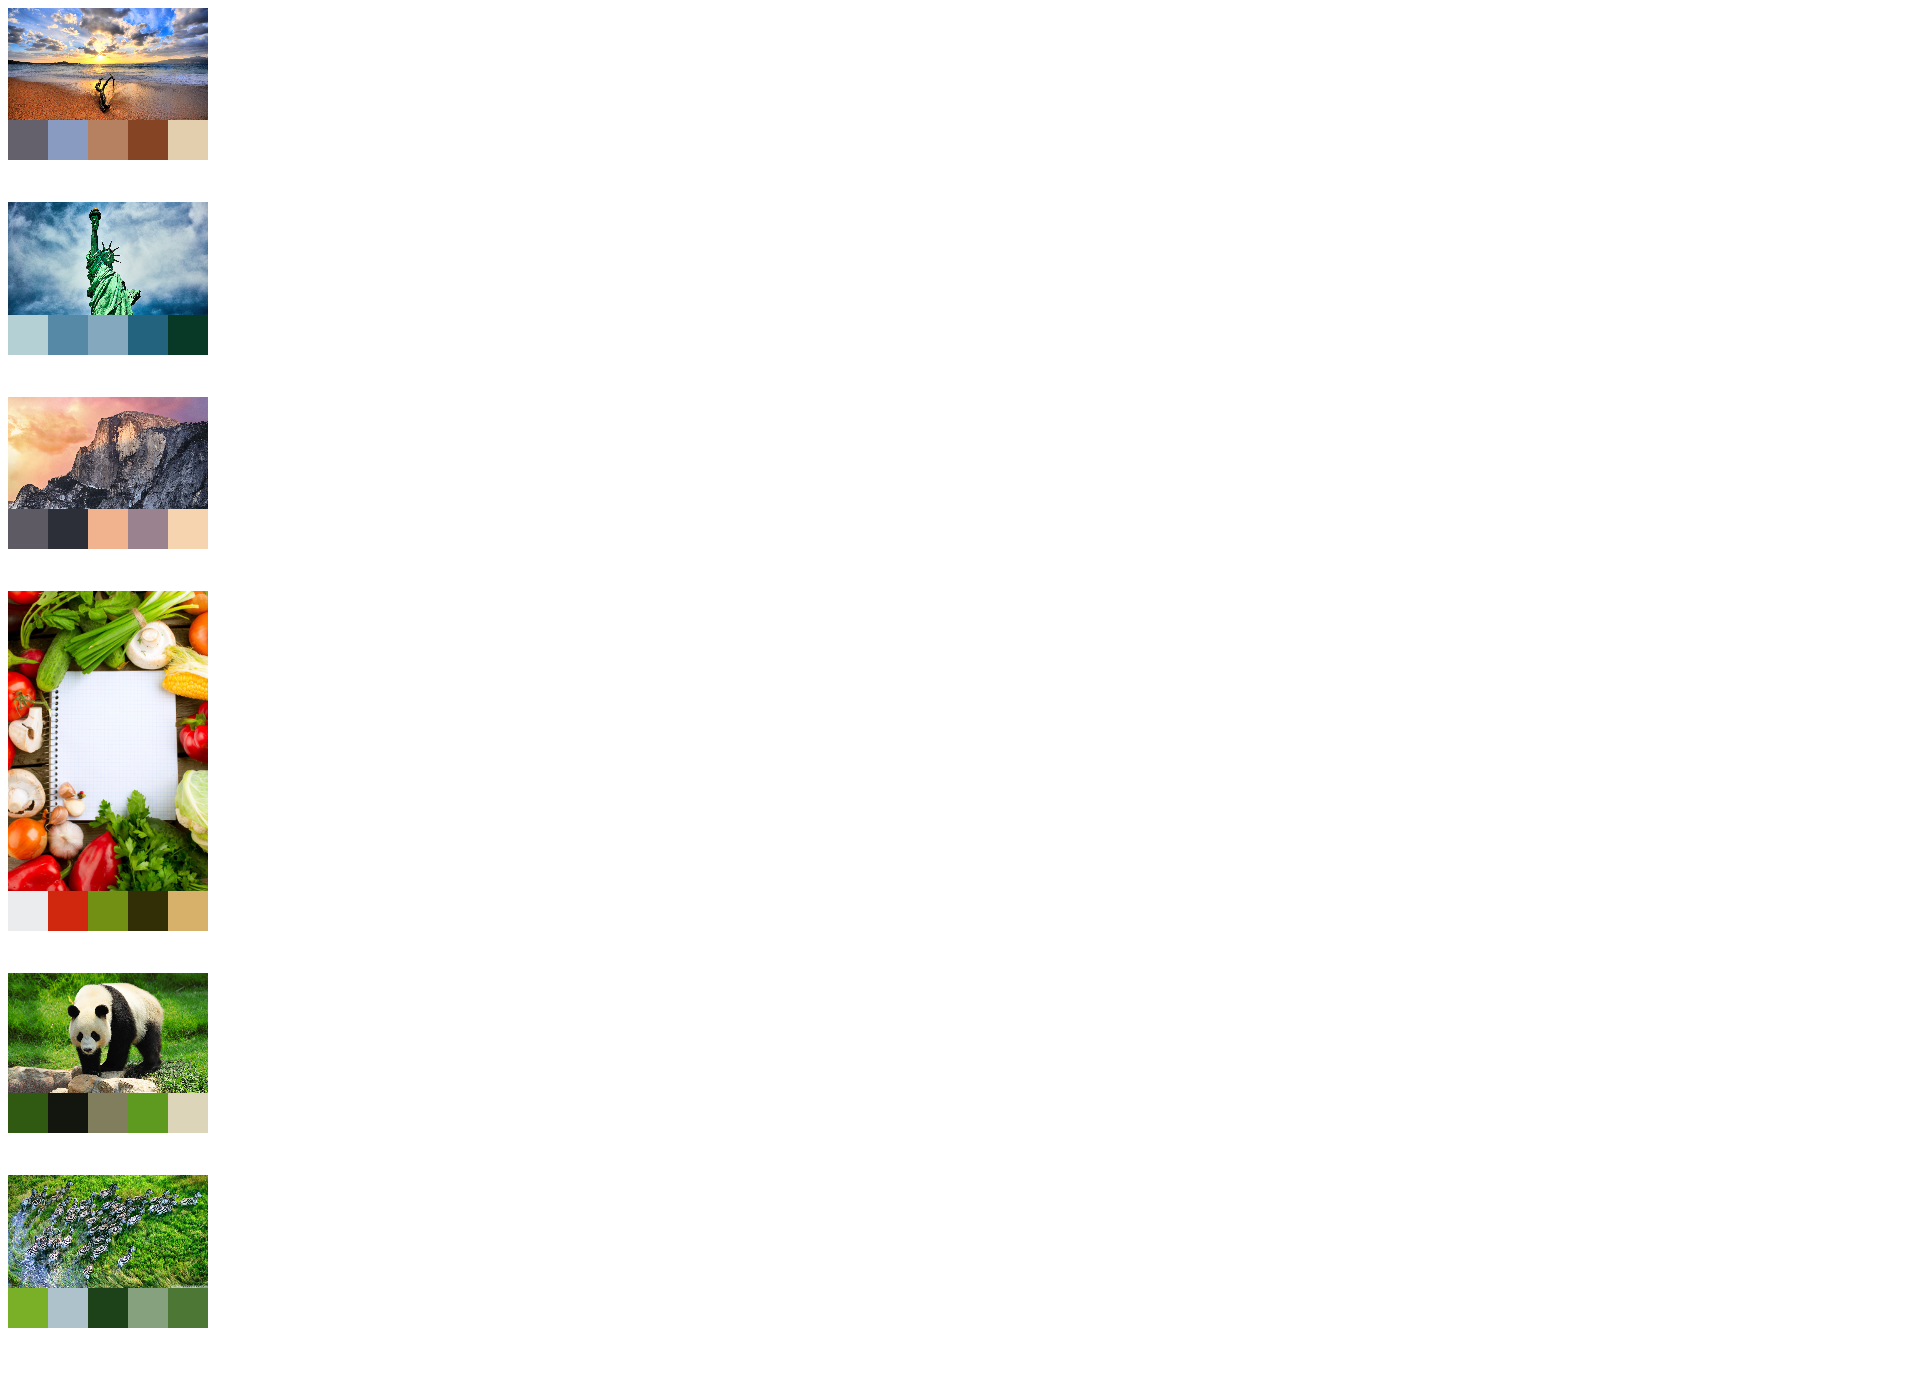
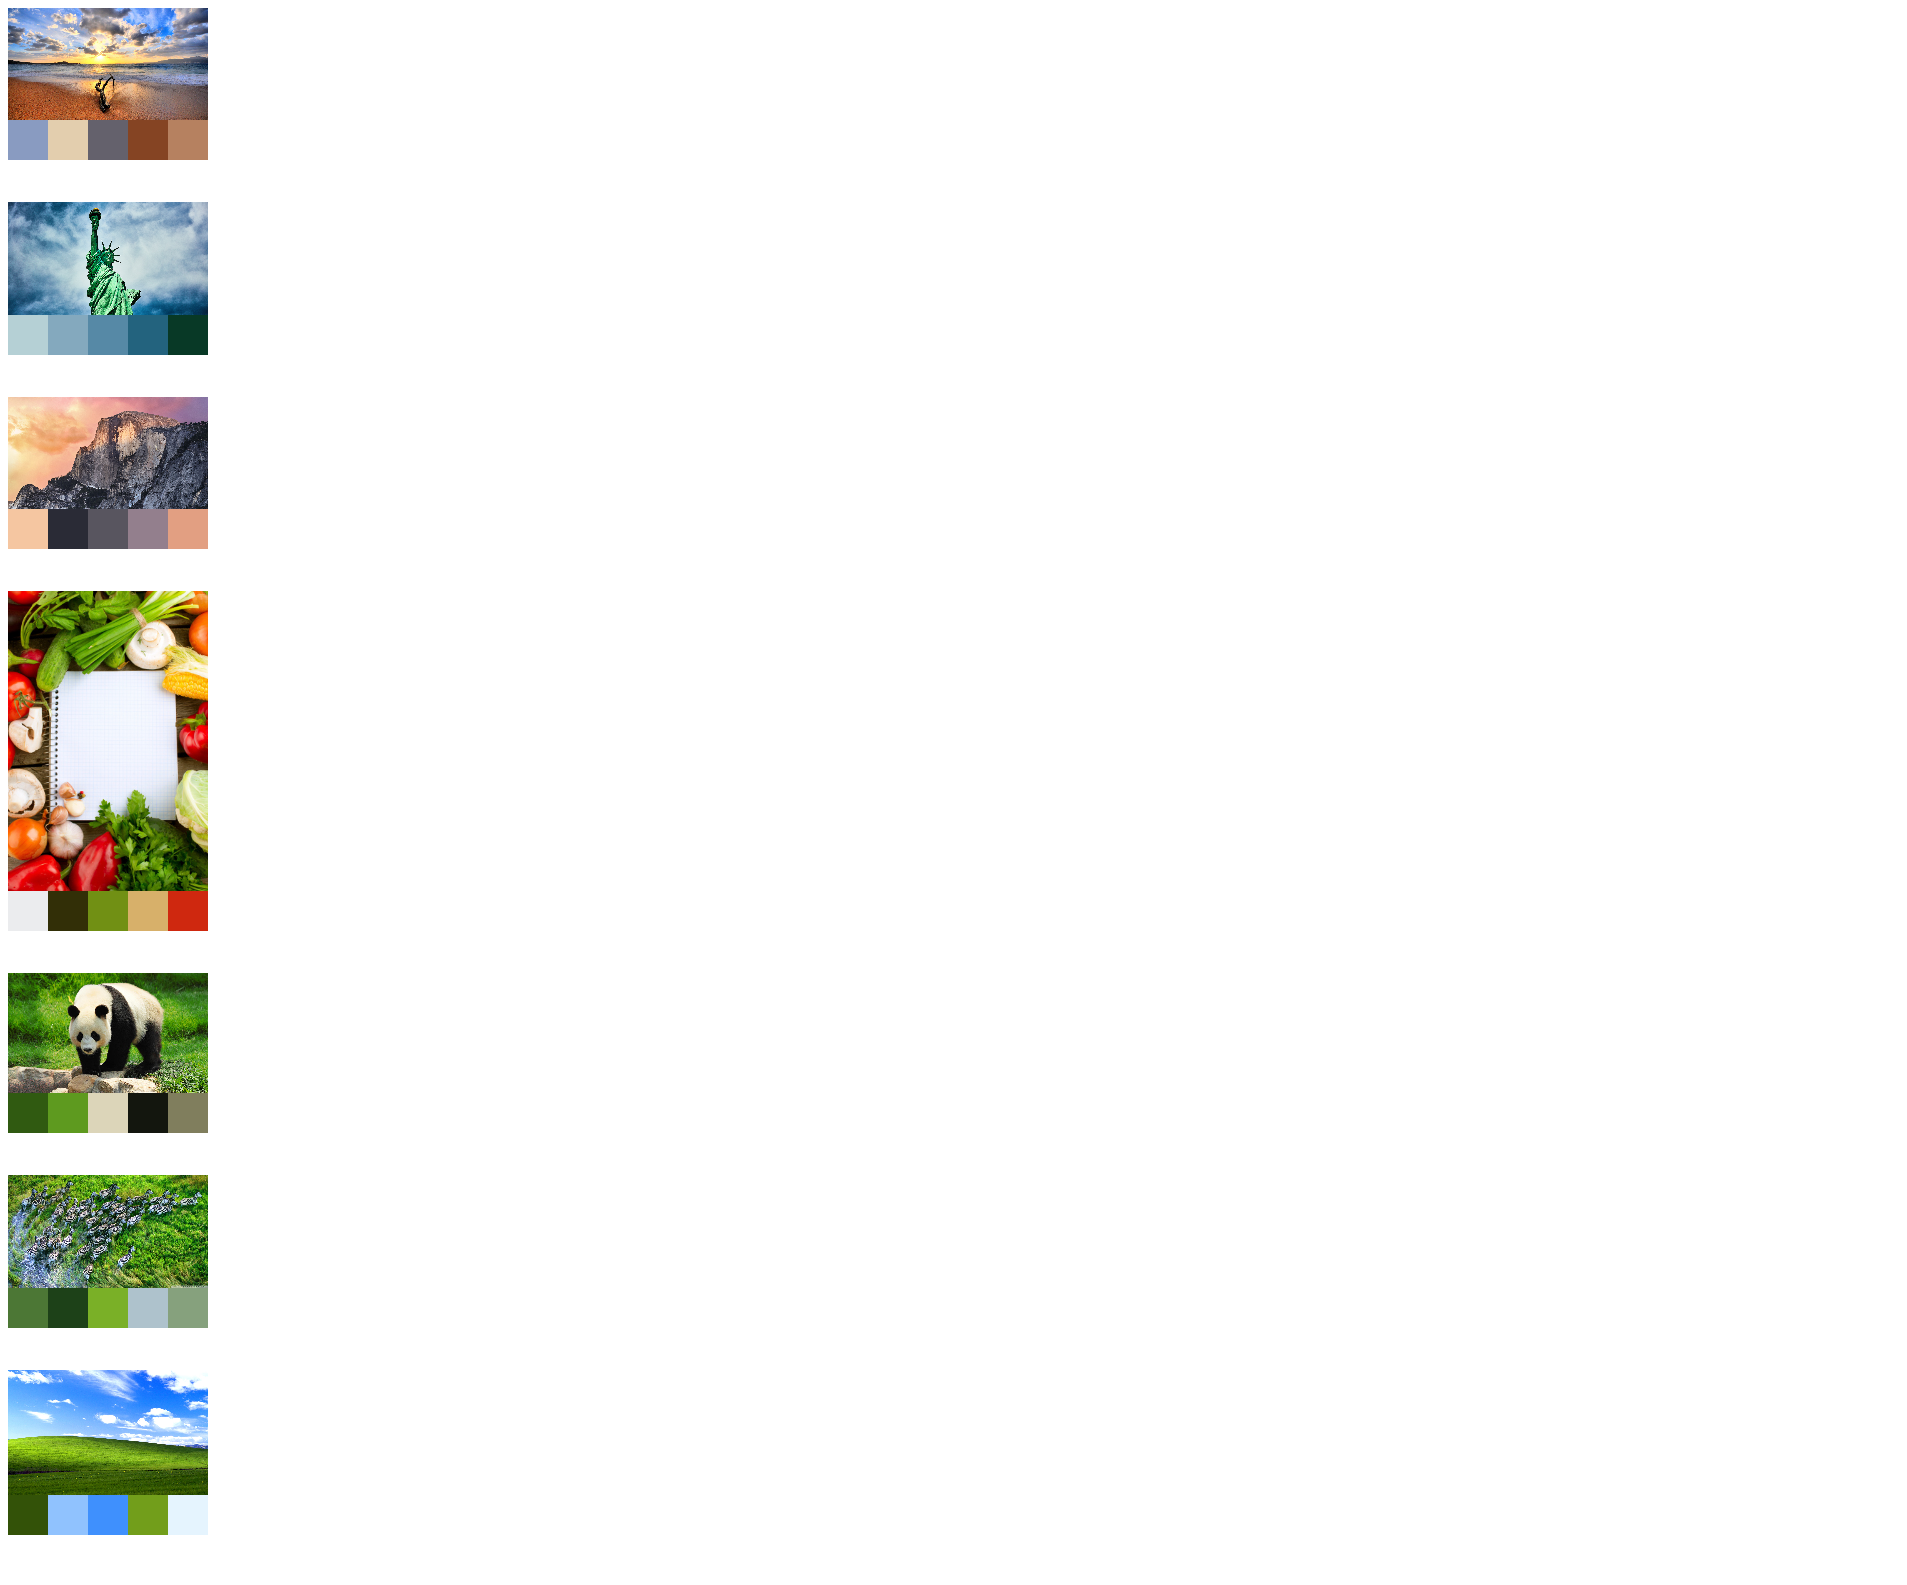
Update

Changed region(s): [[0.0, 0.0, 0.1238, 0.9673]]

diff --git a/test.html b/test.html
@@ -1,24 +1,24 @@
 <div>
 <img src="example_images/01540_driftwood_1366x768.jpg" width="200"><br>
-<div style="background-color:rgb(139,151,181);display:inline-block;width:40px;height:40px;margin-right:-5px;"></div>
-<div style="background-color:rgb(102,100,111);display:inline-block;width:40px;height:40px;margin-right:-5px;"></div>
-<div style="background-color:rgb(145,81,48);display:inline-block;width:40px;height:40px;margin-right:-5px;"></div>
-<div style="background-color:rgb(208,204,206);display:inline-block;width:40px;height:40px;margin-right:-5px;"></div>
-<div style="background-color:rgb(237,195,127);display:inline-block;width:40px;height:40px;margin-right:-5px;"></div>
+<div style="background-color:rgb(137,155,193);display:inline-block;width:40px;height:40px;margin-right:-5px;"></div>
+<div style="background-color:rgb(227,206,174);display:inline-block;width:40px;height:40px;margin-right:-5px;"></div>
+<div style="background-color:rgb(100,97,108);display:inline-block;width:40px;height:40px;margin-right:-5px;"></div>
+<div style="background-color:rgb(133,68,35);display:inline-block;width:40px;height:40px;margin-right:-5px;"></div>
+<div style="background-color:rgb(182,129,96);display:inline-block;width:40px;height:40px;margin-right:-5px;"></div>
 <br><br><br>
 <img src="example_images/04103_misslibertyii_1920x1080.jpg" width="200"><br>
-<div style="background-color:rgb(181,207,213);display:inline-block;width:40px;height:40px;margin-right:-5px;"></div>
-<div style="background-color:rgb(128,166,188);display:inline-block;width:40px;height:40px;margin-right:-5px;"></div>
-<div style="background-color:rgb(69,124,156);display:inline-block;width:40px;height:40px;margin-right:-5px;"></div>
-<div style="background-color:rgb(17,62,88);display:inline-block;width:40px;height:40px;margin-right:-5px;"></div>
-<div style="background-color:rgb(12,99,50);display:inline-block;width:40px;height:40px;margin-right:-5px;"></div>
+<div style="background-color:rgb(181,208,213);display:inline-block;width:40px;height:40px;margin-right:-5px;"></div>
+<div style="background-color:rgb(132,169,190);display:inline-block;width:40px;height:40px;margin-right:-5px;"></div>
+<div style="background-color:rgb(86,137,166);display:inline-block;width:40px;height:40px;margin-right:-5px;"></div>
+<div style="background-color:rgb(35,99,126);display:inline-block;width:40px;height:40px;margin-right:-5px;"></div>
+<div style="background-color:rgb(8,57,38);display:inline-block;width:40px;height:40px;margin-right:-5px;"></div>
 <br><br><br>
 <img src="example_images/14775211410_42b8d244da_o.jpg" width="200"><br>
 <div style="background-color:rgb(245,198,161);display:inline-block;width:40px;height:40px;margin-right:-5px;"></div>
-<div style="background-color:rgb(43,45,56);display:inline-block;width:40px;height:40px;margin-right:-5px;"></div>
-<div style="background-color:rgb(95,90,100);display:inline-block;width:40px;height:40px;margin-right:-5px;"></div>
-<div style="background-color:rgb(155,131,145);display:inline-block;width:40px;height:40px;margin-right:-5px;"></div>
-<div style="background-color:rgb(232,163,128);display:inline-block;width:40px;height:40px;margin-right:-5px;"></div>
+<div style="background-color:rgb(42,43,54);display:inline-block;width:40px;height:40px;margin-right:-5px;"></div>
+<div style="background-color:rgb(88,85,95);display:inline-block;width:40px;height:40px;margin-right:-5px;"></div>
+<div style="background-color:rgb(147,127,141);display:inline-block;width:40px;height:40px;margin-right:-5px;"></div>
+<div style="background-color:rgb(226,159,130);display:inline-block;width:40px;height:40px;margin-right:-5px;"></div>
 <br><br><br>
 <img src="example_images/Fotolia_45549559_320_480.jpg" width="200"><br>
 <div style="background-color:rgb(235,236,238);display:inline-block;width:40px;height:40px;margin-right:-5px;"></div>
@@ -35,10 +35,17 @@
 <div style="background-color:rgb(128,126,93);display:inline-block;width:40px;height:40px;margin-right:-5px;"></div>
 <br><br><br>
 <img src="example_images/mac_os_x_retina_zebras-wallpaper-1920x1080.jpg" width="200"><br>
-<div style="background-color:rgb(94,150,31);display:inline-block;width:40px;height:40px;margin-right:-5px;"></div>
-<div style="background-color:rgb(30,69,20);display:inline-block;width:40px;height:40px;margin-right:-5px;"></div>
-<div style="background-color:rgb(129,159,112);display:inline-block;width:40px;height:40px;margin-right:-5px;"></div>
-<div style="background-color:rgb(180,200,204);display:inline-block;width:40px;height:40px;margin-right:-5px;"></div>
-<div style="background-color:rgb(68,89,86);display:inline-block;width:40px;height:40px;margin-right:-5px;"></div>
+<div style="background-color:rgb(76,119,53);display:inline-block;width:40px;height:40px;margin-right:-5px;"></div>
+<div style="background-color:rgb(29,65,24);display:inline-block;width:40px;height:40px;margin-right:-5px;"></div>
+<div style="background-color:rgb(122,176,39);display:inline-block;width:40px;height:40px;margin-right:-5px;"></div>
+<div style="background-color:rgb(174,194,204);display:inline-block;width:40px;height:40px;margin-right:-5px;"></div>
+<div style="background-color:rgb(134,161,125);display:inline-block;width:40px;height:40px;margin-right:-5px;"></div>
+<br><br><br>
+<img src="example_images/windows_xp_bliss-wide.jpg" width="200"><br>
+<div style="background-color:rgb(51,82,8);display:inline-block;width:40px;height:40px;margin-right:-5px;"></div>
+<div style="background-color:rgb(144,194,254);display:inline-block;width:40px;height:40px;margin-right:-5px;"></div>
+<div style="background-color:rgb(63,144,253);display:inline-block;width:40px;height:40px;margin-right:-5px;"></div>
+<div style="background-color:rgb(114,158,27);display:inline-block;width:40px;height:40px;margin-right:-5px;"></div>
+<div style="background-color:rgb(229,244,254);display:inline-block;width:40px;height:40px;margin-right:-5px;"></div>
 <br><br><br>
 </div>

diff --git a/main.go b/main.go
@@ -9,6 +9,8 @@ import (
 
 	"sort"
 
+	"math"
+
 	"github.com/bugra/kmeans"
 )
 
@@ -20,6 +22,7 @@ func main() {
 		"example_images/Fotolia_45549559_320_480.jpg",
 		"example_images/giant-panda-shutterstock_86500690.jpg",
 		"example_images/mac_os_x_retina_zebras-wallpaper-1920x1080.jpg",
+		"example_images/windows_xp_bliss-wide.jpg",
 	}
 
 	fmt.Println("<div>")
@@ -50,7 +53,7 @@ func extractColors(image image.Image, colorsCount int) []color.Color {
 	height := image.Bounds().Max.Y
 
 	// calculate downsizing ratio
-	step := width/1024 + 1
+	step := int(math.Max(float64(width)/1024., 1))
 
 	// load image's pixels into [][]float64
 	colorData := [][]float64{}
@@ -77,8 +80,6 @@ func extractColors(image image.Image, colorsCount int) []color.Color {
 		selectedColorsSums[cluster][1] += colorData[idx][1]
 		selectedColorsSums[cluster][2] += colorData[idx][2]
 	}
-
-	//fmt.Println(selectedColorsCount)
 
 	// pack average cluster color to color.Color struct
 	selectedColors := []SortableColor{}
